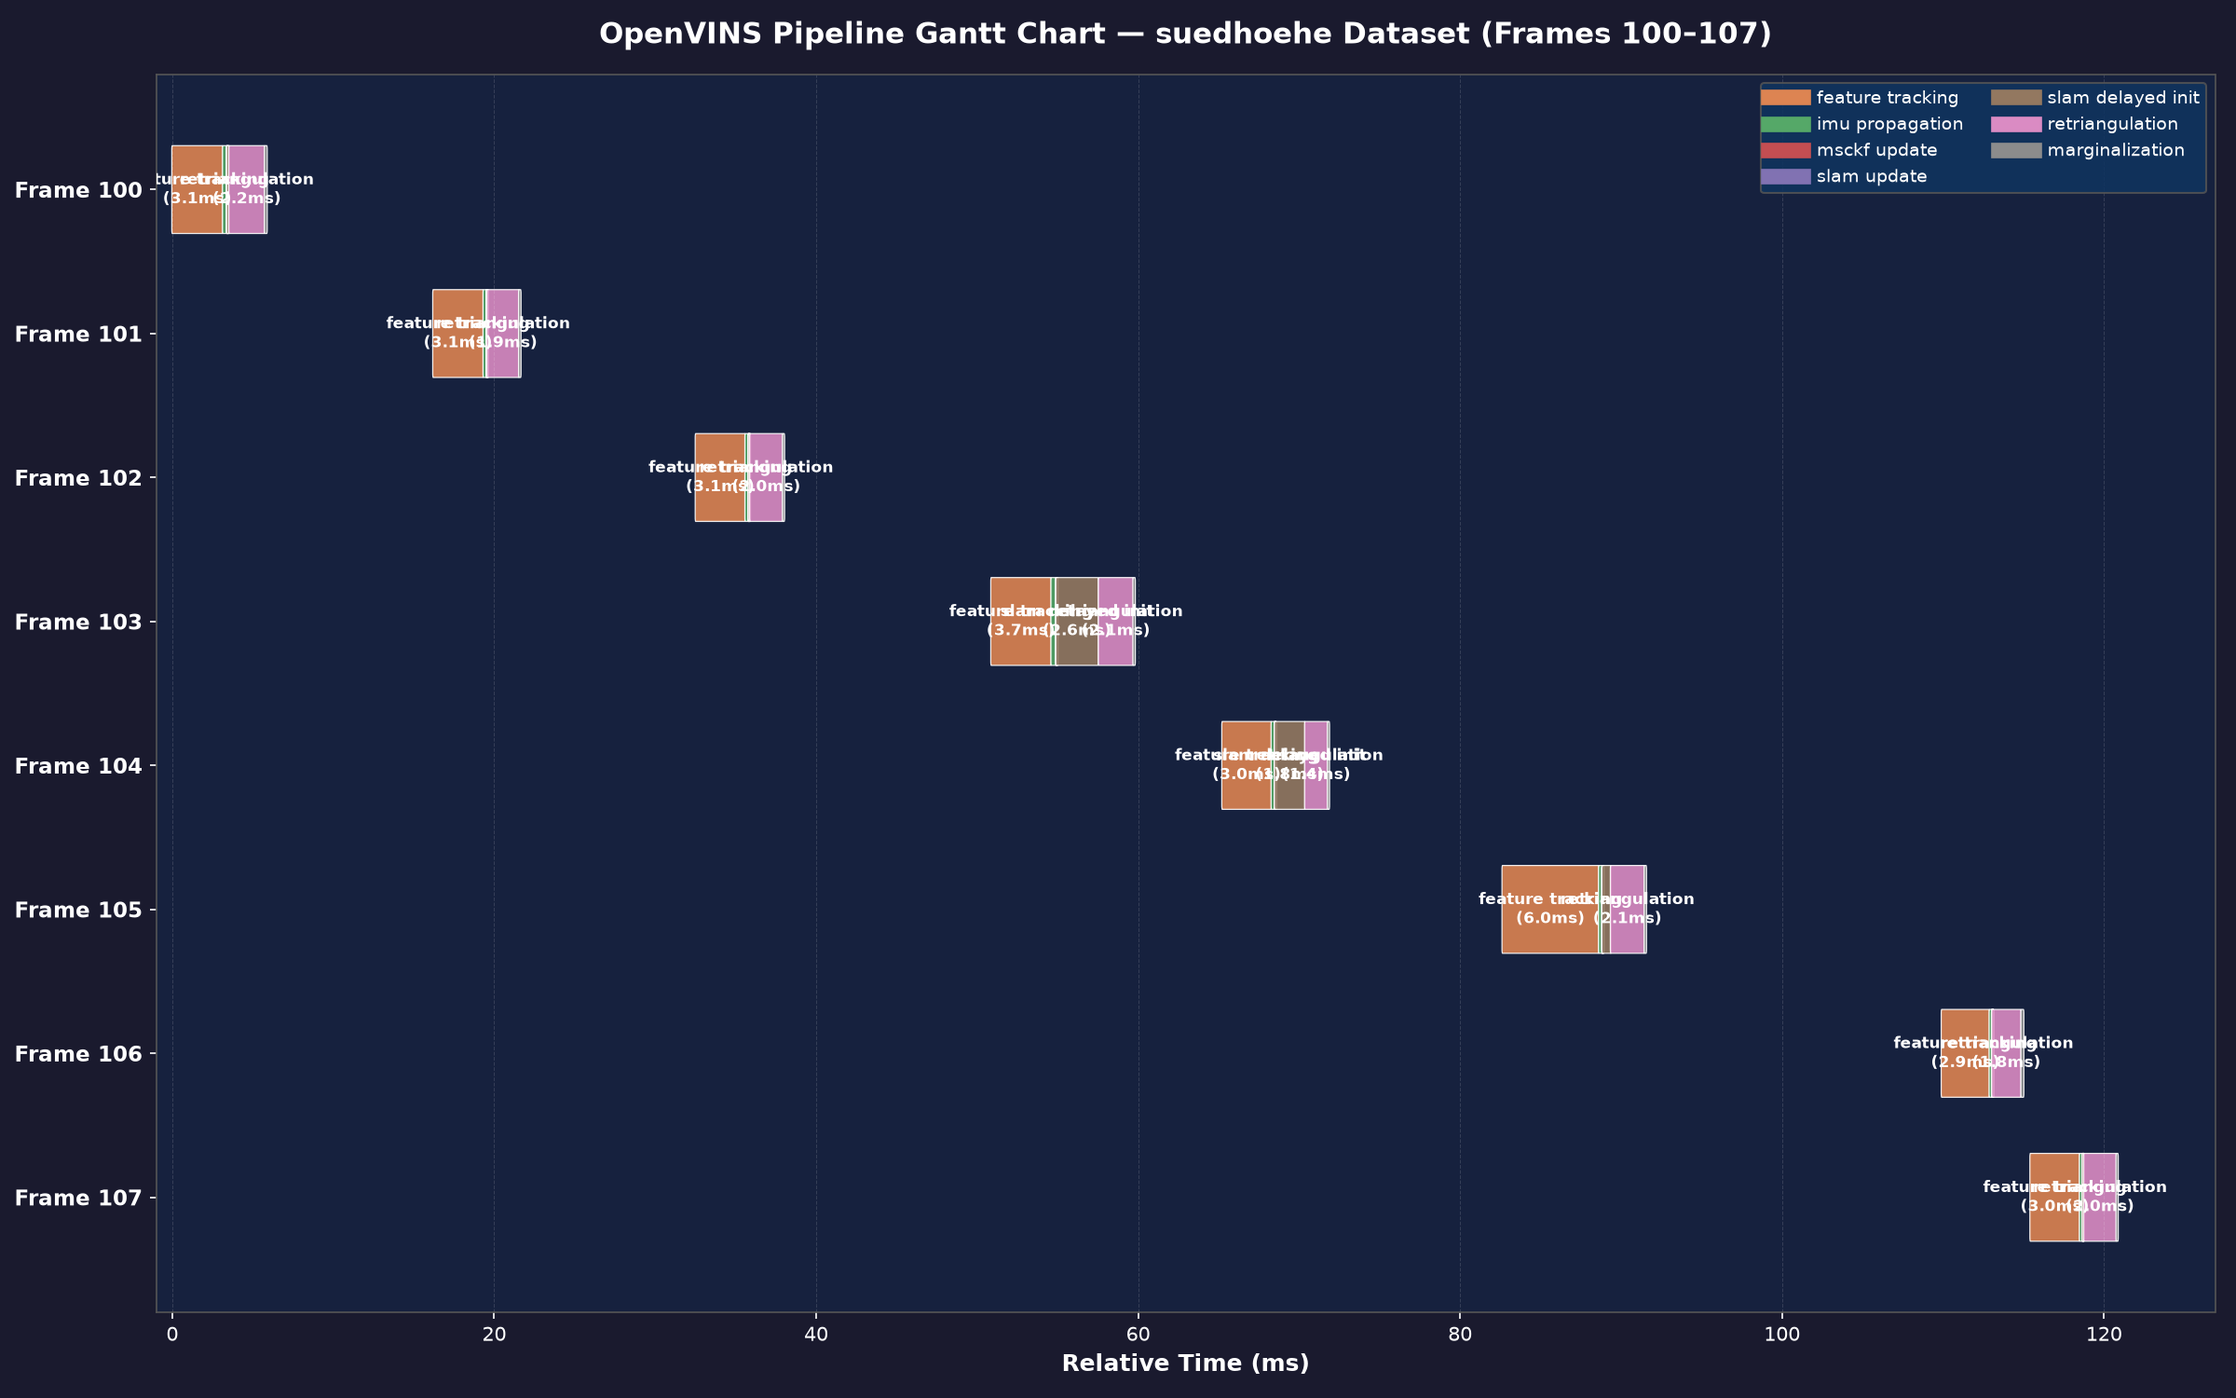
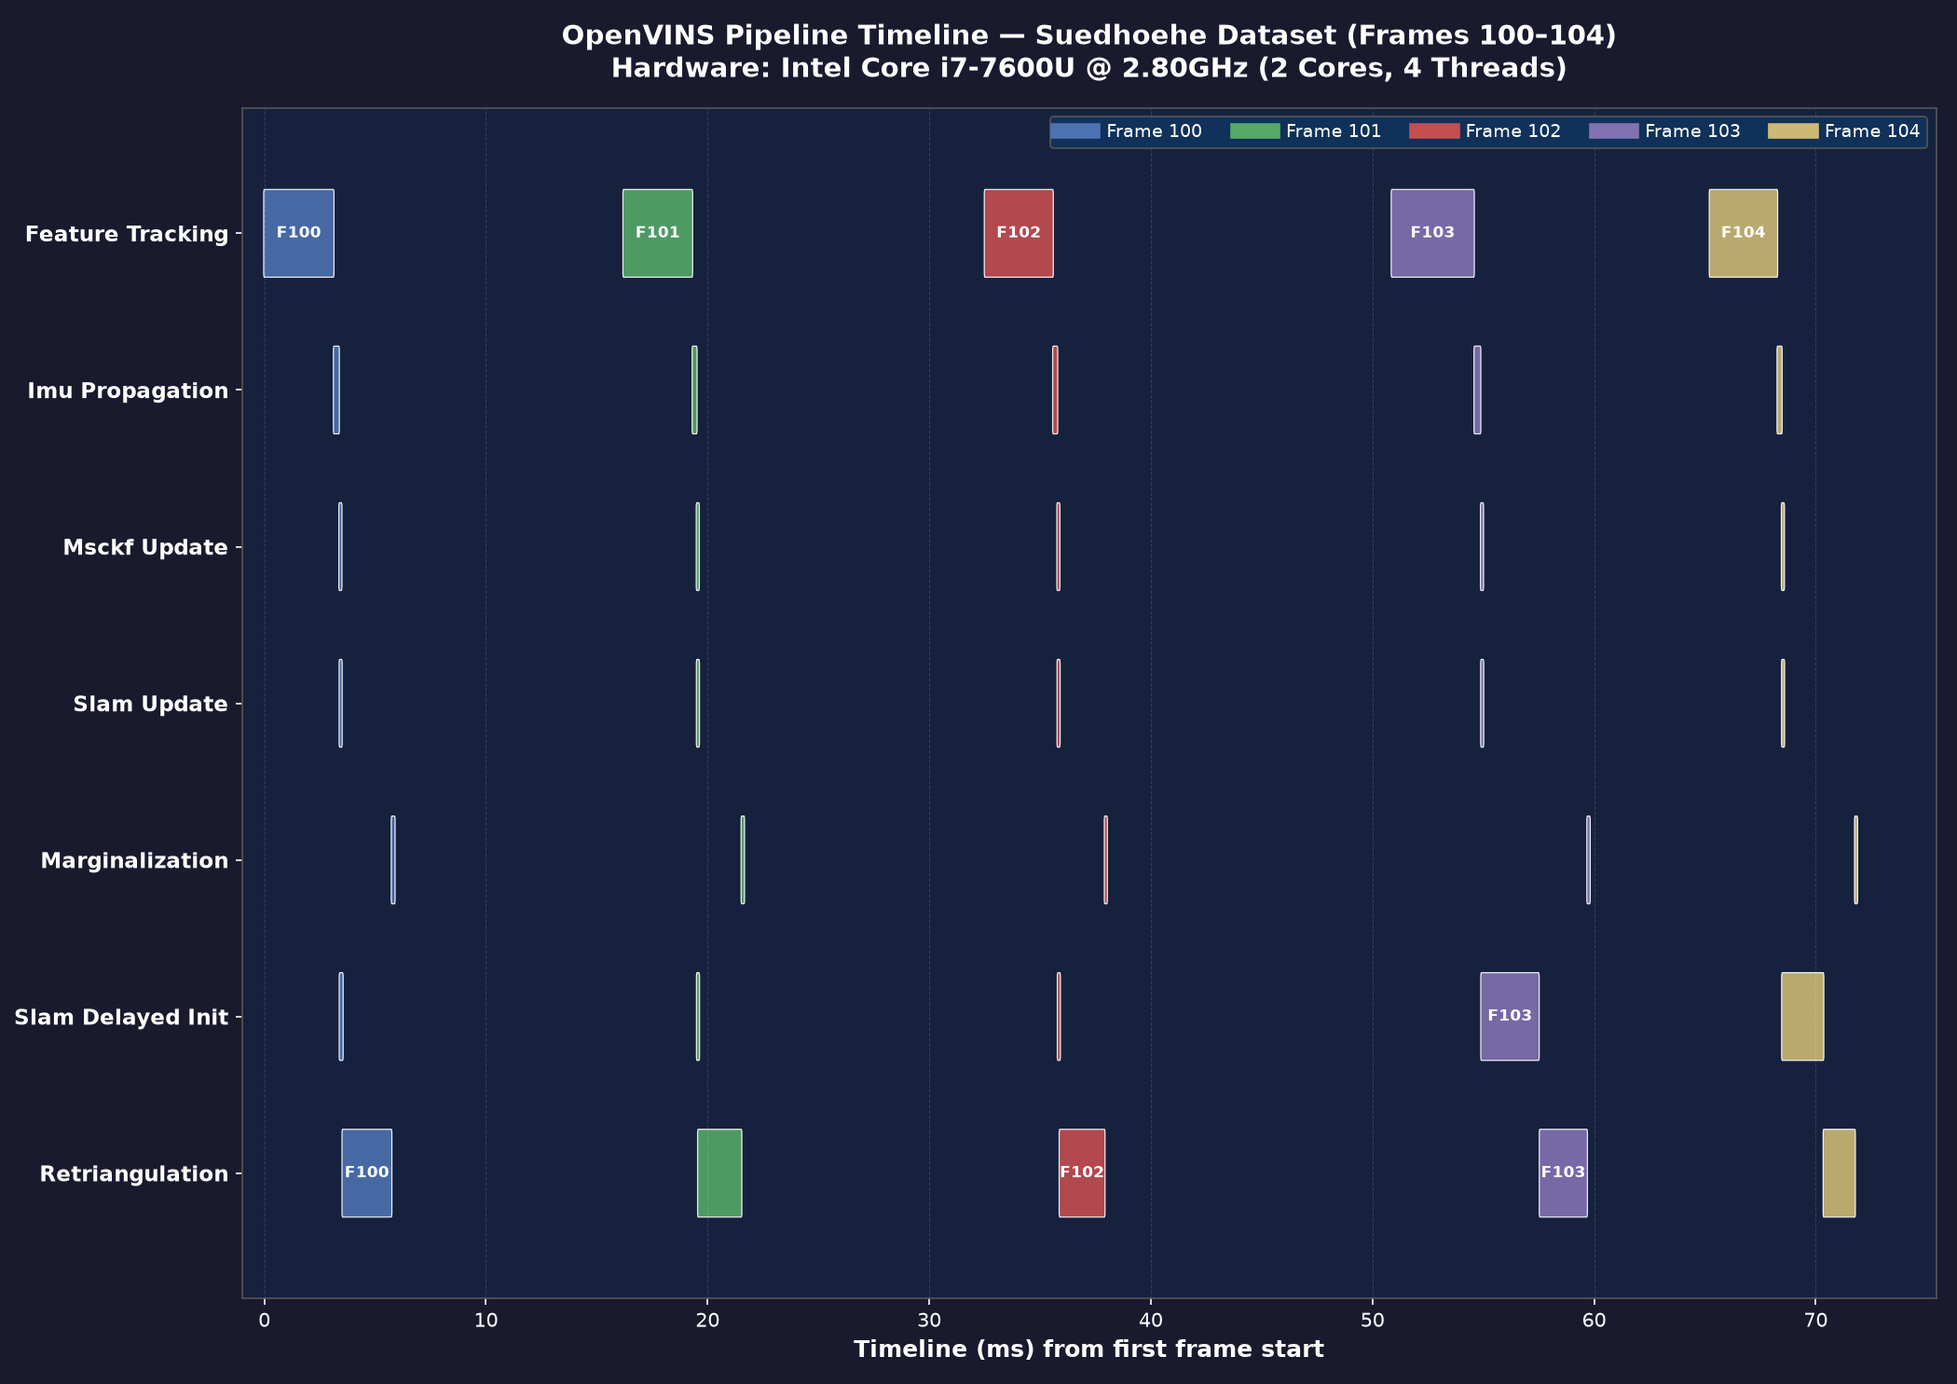
Update Gantt charts to show horizontal-split modules and frame colorings to illustrate parallel/sequential pipelining

diff --git a/scratch/plot_timing.py b/scratch/plot_timing.py
@@ -2,7 +2,8 @@
 """
 Pipeline Timing Visualizer for SLAM / VIO Benchmarking
 ======================================================
-Reads scoped-timer CSVs and generates clean, presentation-ready Gantt charts.
+Generates clean, horizontal Gantt charts with modules/functions split as separate lanes,
+coloring bars by frame ID to demonstrate parallel/sequential thread pipelines.
 """
 
 import argparse
@@ -14,28 +15,11 @@ import numpy as np
 import pandas as pd
 from matplotlib.lines import Line2D
 
-STAGE_COLOURS = {
-    "feature_tracking":      "#DD8452",
-    "track_stereo":          "#DD8452",
-    "imu_propagation":       "#55A868",
-    "msckf_update":          "#C44E52",
-    "slam_update":           "#8172B2",
-    "slam_delayed_init":     "#937860",
-    "retriangulation":       "#DA8BC3",
-    "marginalization":       "#8C8C8C",
-    "zupt_update":           "#CCB974",
-    "image_preprocessing":   "#4C72B0",
-    "featureDetectionTime":  "#DD8452",
-    "featureTrackingTime":   "#55A868",
-    "monoRansacTime":        "#C44E52",
-    "stereoRansacTime":      "#8172B2",
-    "featureSelectionTime":  "#937860",
-}
-DEFAULT_COLOUR = "#64b5f6"
-
-def stage_colour(name: str) -> str:
-    return STAGE_COLOURS.get(name, DEFAULT_COLOUR)
-
+# Consistent modern discrete color palette for frames
+FRAME_COLOURS = [
+    "#4C72B0", "#55A868", "#C44E52", "#8172B2", "#CCB974",
+    "#64B5F6", "#E377C2", "#8C564B", "#9467BD", "#7F7F7F"
+]
 
 def load_csv(path: str) -> pd.DataFrame:
     df = pd.read_csv(path)
@@ -43,12 +27,10 @@ def load_csv(path: str) -> pd.DataFrame:
     assert {"frame_id", "module", "thread_id", "start_ns", "end_ns", "duration_ms"}.issubset(
         df.columns
     ), f"Missing columns. Got: {list(df.columns)}"
-    uid_map = {uid: f"Thread-{i+1}" for i, uid in enumerate(sorted(df["thread_id"].unique()))}
-    df["thread_label"] = df["thread_id"].map(uid_map)
     return df
 
-
-def plot_gantt_zoomed(df: pd.DataFrame, out_path: str, algo_name: str, dataset_name: str, start_frame: int = 100, num_frames: int = 8):
+def plot_gantt_horizontal_split(df: pd.DataFrame, out_path: str, algo_name: str, dataset_name: str, start_frame: int = 100, num_frames: int = 5):
+    # Retrieve consecutive frames starting at start_frame
     frames = [f for f in sorted(df["frame_id"].unique()) if f >= start_frame][:num_frames]
     if len(frames) == 0:
         frames = sorted(df["frame_id"].unique())[:num_frames]
@@ -58,79 +40,119 @@ def plot_gantt_zoomed(df: pd.DataFrame, out_path: str, algo_name: str, dataset_n
         print(f"[!] Warning: Zoomed range empty for {algo_name}, skipping")
         return
 
+    # Normalize time relative to the earliest start time in zoom window
     t0 = df_zoom["start_ns"].min()
     df_zoom["start_ms"] = (df_zoom["start_ns"] - t0) * 1e-6
     df_zoom["end_ms"]   = (df_zoom["end_ns"]   - t0) * 1e-6
 
-    frame_y = {f: i for i, f in enumerate(reversed(frames))}
-    lane_height = 0.55
+    # Determine unique modules and logical order
+    raw_modules = df_zoom["module"].unique()
+    if algo_name == "OpenVINS":
+        order = ["feature_tracking", "imu_propagation", "msckf_update", "slam_update", "marginalization"]
+        modules = [m for m in order if m in raw_modules] + [m for m in raw_modules if m not in order]
+    elif algo_name == "ORB-SLAM3":
+        order = ["image_preprocessing", "track_stereo"]
+        modules = [m for m in order if m in raw_modules] + [m for m in raw_modules if m not in order]
+    else:
+        modules = sorted(raw_modules)
 
-    fig, ax = plt.subplots(figsize=(16, 1.2 + 1.1 * len(frames)))
+    # Map modules to vertical y-coordinates
+    module_y = {mod: i for i, mod in enumerate(reversed(modules))}
+    lane_height = 0.5
+
+    # Create figure
+    fig, ax = plt.subplots(figsize=(14, 1.5 + 1.2 * len(modules)))
     fig.patch.set_facecolor("#1a1a2e")
     ax.set_facecolor("#16213e")
 
+    # Map each frame ID to a color
+    frame_colors = {f: FRAME_COLOURS[i % len(FRAME_COLOURS)] for i, f in enumerate(frames)}
+
     for _, row in df_zoom.iterrows():
-        y = frame_y[row["frame_id"]]
+        y = module_y[row["module"]]
         width = max(row["end_ms"] - row["start_ms"], 0.08)
+        color = frame_colors[row["frame_id"]]
+
         rect = mpatches.FancyBboxPatch(
             (row["start_ms"], y - lane_height / 2),
             width, lane_height,
             boxstyle="round,pad=0.03",
-            facecolor=stage_colour(row["module"]),
+            facecolor=color,
             edgecolor="#ffffff",
             linewidth=0.6,
             alpha=0.9,
         )
         ax.add_patch(rect)
-        if width > 1.0:
+
+        # Label inside or next to the bar
+        label_text = f"F{row['frame_id']} ({row['duration_ms']:.1f}ms)"
+        if width > 12.0:
             ax.text(
                 row["start_ms"] + width / 2,
                 y,
-                f"{row['module'].replace('_', ' ')}\n({row['duration_ms']:.1f}ms)",
+                label_text,
+                ha="center", va="center",
+                fontsize=8, color="white", fontweight="bold",
+                clip_on=True,
+            )
+        elif width > 2.0:
+            ax.text(
+                row["start_ms"] + width / 2,
+                y,
+                f"F{row['frame_id']}",
                 ha="center", va="center",
                 fontsize=8, color="white", fontweight="bold",
                 clip_on=True,
             )
 
-    ax.set_yticks([frame_y[f] for f in reversed(frames)])
-    ax.set_yticklabels([f"Frame {f}" for f in reversed(frames)], color="white", fontsize=11, fontweight="bold")
-    ax.set_ylim(-0.8, len(frames) - 0.2)
+    # Set axis properties
+    ax.set_yticks([module_y[m] for m in reversed(modules)])
+    ax.set_yticklabels([m.replace("_", " ").title() for m in reversed(modules)], color="white", fontsize=11, fontweight="bold")
+    ax.set_ylim(-0.8, len(modules) - 0.2)
     ax.set_xlim(-1, df_zoom["end_ms"].max() * 1.05)
-    ax.set_xlabel("Relative Time (ms)", color="white", fontsize=12, fontweight="bold")
+    ax.set_xlabel("Timeline (ms) from first frame start", color="white", fontsize=12, fontweight="bold")
+    
+    # Subtitle with hardware info
+    hardware_info = "Intel Core i7-7600U @ 2.80GHz (2 Cores, 4 Threads)"
     ax.set_title(
-        f"{algo_name} Pipeline Gantt Chart — {dataset_name} Dataset (Frames {frames[0]}–{frames[-1]})",
-        color="white", fontsize=15, fontweight="bold", pad=16,
+        f"{algo_name} Pipeline Timeline — {dataset_name.capitalize()} Dataset (Frames {frames[0]}–{frames[-1]})\nHardware: {hardware_info}",
+        color="white", fontsize=14, fontweight="bold", pad=16,
     )
+    
     ax.tick_params(colors="white")
     ax.spines[:].set_edgecolor("#555")
     ax.grid(axis="x", color="#ffffff22", linestyle="--", linewidth=0.5)
 
+    # Legend for frames
     legend_handles = [
-        Line2D([0], [0], color=stage_colour(s), linewidth=8, label=s.replace("_", " "))
-        for s in df_zoom["module"].unique()
+        Line2D([0], [0], color=frame_colors[f], linewidth=8, label=f"Frame {f}")
+        for f in frames
     ]
     ax.legend(handles=legend_handles, loc="upper right",
               facecolor="#0f3460", edgecolor="#555", labelcolor="white",
-              fontsize=9, ncol=2, framealpha=0.85)
+              fontsize=9, ncol=min(len(frames), 5), framealpha=0.85)
 
     plt.tight_layout()
     plt.savefig(out_path, dpi=150, facecolor=fig.get_facecolor())
     plt.close(fig)
     print(f"[✔] Saved {algo_name} Gantt chart → {out_path}")
 
-
 def main():
     parser = argparse.ArgumentParser(description="Timing visualizer")
     parser.add_argument("--csv", required=True)
     parser.add_argument("--out", required=True)
     parser.add_argument("--algo", default="OpenVINS")
-    parser.add_argument("--dataset", default="Suedhohe")
+    parser.add_argument("--dataset", default="suedhoehe")
     parser.add_argument("--start-frame", type=int, default=100)
+    parser.add_argument("--num-frames", type=int, default=5)
     args = parser.parse_args()
 
     os.makedirs(os.path.dirname(args.out), exist_ok=True)
     df = load_csv(args.csv)
-    plot_gantt_zoomed(df, args.out, args.algo, args.dataset, start_frame=args.start_frame)
+    plot_gantt_horizontal_split(
+        df, args.out, args.algo, args.dataset,
+        start_frame=args.start_frame, num_frames=args.num_frames
+    )
 
 if __name__ == "__main__":
     main()

diff --git a/scratch/plot_kimera_timing.py b/scratch/plot_kimera_timing.py
@@ -1,6 +1,9 @@
 #!/usr/bin/env python3
 """
 Kimera-VIO Pipeline Timing Visualizer for Suedhohe Dataset
+==========================================================
+Generates clean, horizontal Gantt charts with modules/functions split as separate lanes,
+coloring bars by frame ID to demonstrate parallel/sequential thread pipelines.
 """
 
 import os
@@ -12,18 +15,11 @@ import numpy as np
 import pandas as pd
 from matplotlib.lines import Line2D
 
-STAGE_COLOURS = {
-    "featureDetectionTime":  "#DD8452",
-    "featureTrackingTime":   "#55A868",
-    "monoRansacTime":        "#C44E52",
-    "stereoRansacTime":      "#8172B2",
-    "featureSelectionTime":  "#937860",
-}
-DEFAULT_COLOUR = "#64b5f6"
-
-def stage_colour(name: str) -> str:
-    return STAGE_COLOURS.get(name, DEFAULT_COLOUR)
-
+# Consistent modern discrete color palette for frames
+FRAME_COLOURS = [
+    "#4C72B0", "#55A868", "#C44E52", "#8172B2", "#CCB974",
+    "#64B5F6", "#E377C2", "#8C564B", "#9467BD", "#7F7F7F"
+]
 
 def load_kimera_csv(path: str) -> pd.DataFrame:
     df = pd.read_csv(path)
@@ -47,8 +43,8 @@ def load_kimera_csv(path: str) -> pd.DataFrame:
                     "module": col,
                     "thread_id": 1,
                     "thread_label": "Frontend Thread",
-                    "start_ms": t_curr + cum_offset,
-                    "end_ms": t_curr + cum_offset + dur,
+                    "start_ns": int((t_curr + cum_offset) * 1e6),
+                    "end_ns": int((t_curr + cum_offset + dur) * 1e6),
                     "duration_ms": dur
                 })
                 cum_offset += dur
@@ -56,89 +52,124 @@ def load_kimera_csv(path: str) -> pd.DataFrame:
     df_long = pd.DataFrame(rows)
     return df_long
 
-
-def plot_gantt_zoomed(df: pd.DataFrame, out_path: str, algo_name: str, dataset_name: str, start_frame: int = 50, num_frames: int = 8):
+def plot_gantt_horizontal_split(df: pd.DataFrame, out_path: str, algo_name: str, dataset_name: str, start_frame: int = 50, num_frames: int = 5):
+    # Retrieve consecutive frames starting at start_frame
     frames = [f for f in sorted(df["frame_id"].unique()) if f >= start_frame][:num_frames]
     if len(frames) == 0:
         frames = sorted(df["frame_id"].unique())[:num_frames]
 
     df_zoom = df[df["frame_id"].isin(frames)].copy()
     if df_zoom.empty:
+        print(f"[!] Warning: Zoomed range empty for {algo_name}, skipping")
         return
 
-    t0 = df_zoom["start_ms"].min()
-    df_zoom["rel_start_ms"] = df_zoom["start_ms"] - t0
-    df_zoom["rel_end_ms"]   = df_zoom["end_ms"] - t0
+    # Normalize time relative to the earliest start time in zoom window
+    t0 = df_zoom["start_ns"].min()
+    df_zoom["start_ms"] = (df_zoom["start_ns"] - t0) * 1e-6
+    df_zoom["end_ms"]   = (df_zoom["end_ns"]   - t0) * 1e-6
 
-    frame_y = {f: i for i, f in enumerate(reversed(frames))}
-    lane_height = 0.55
+    # Determine unique modules and logical order
+    raw_modules = df_zoom["module"].unique()
+    order = ["featureDetectionTime", "featureTrackingTime", "monoRansacTime", "stereoRansacTime", "featureSelectionTime"]
+    modules = [m for m in order if m in raw_modules] + [m for m in raw_modules if m not in order]
 
-    fig, ax = plt.subplots(figsize=(16, 1.2 + 1.1 * len(frames)))
+    # Map modules to vertical y-coordinates
+    module_y = {mod: i for i, mod in enumerate(reversed(modules))}
+    lane_height = 0.5
+
+    # Create figure
+    fig, ax = plt.subplots(figsize=(14, 1.5 + 1.2 * len(modules)))
     fig.patch.set_facecolor("#1a1a2e")
     ax.set_facecolor("#16213e")
 
+    # Map each frame ID to a color
+    frame_colors = {f: FRAME_COLOURS[i % len(FRAME_COLOURS)] for i, f in enumerate(frames)}
+
     for _, row in df_zoom.iterrows():
-        y = frame_y[row["frame_id"]]
-        width = max(row["rel_end_ms"] - row["rel_start_ms"], 0.08)
+        y = module_y[row["module"]]
+        width = max(row["end_ms"] - row["start_ms"], 0.08)
+        color = frame_colors[row["frame_id"]]
+
         rect = mpatches.FancyBboxPatch(
-            (row["rel_start_ms"], y - lane_height / 2),
+            (row["start_ms"], y - lane_height / 2),
             width, lane_height,
             boxstyle="round,pad=0.03",
-            facecolor=stage_colour(row["module"]),
+            facecolor=color,
             edgecolor="#ffffff",
             linewidth=0.6,
             alpha=0.9,
         )
         ax.add_patch(rect)
-        if width > 1.0:
+
+        # Label inside or next to the bar
+        label_text = f"F{row['frame_id']} ({row['duration_ms']:.1f}ms)"
+        if width > 12.0:
             ax.text(
-                row["rel_start_ms"] + width / 2,
+                row["start_ms"] + width / 2,
                 y,
-                f"{row['module'].replace('Time', '')}\n({row['duration_ms']:.1f}ms)",
+                label_text,
+                ha="center", va="center",
+                fontsize=8, color="white", fontweight="bold",
+                clip_on=True,
+            )
+        elif width > 2.0:
+            ax.text(
+                row["start_ms"] + width / 2,
+                y,
+                f"F{row['frame_id']}",
                 ha="center", va="center",
                 fontsize=8, color="white", fontweight="bold",
                 clip_on=True,
             )
 
-    ax.set_yticks([frame_y[f] for f in reversed(frames)])
-    ax.set_yticklabels([f"Frame {f}" for f in reversed(frames)], color="white", fontsize=11, fontweight="bold")
-    ax.set_ylim(-0.8, len(frames) - 0.2)
-    ax.set_xlim(-1, df_zoom["rel_end_ms"].max() * 1.05)
-    ax.set_xlabel("Relative Time (ms)", color="white", fontsize=12, fontweight="bold")
+    # Set axis properties
+    ax.set_yticks([module_y[m] for m in reversed(modules)])
+    ax.set_yticklabels([m.replace("Time", "").title() for m in reversed(modules)], color="white", fontsize=11, fontweight="bold")
+    ax.set_ylim(-0.8, len(modules) - 0.2)
+    ax.set_xlim(-1, df_zoom["end_ms"].max() * 1.05)
+    ax.set_xlabel("Timeline (ms) from first frame start", color="white", fontsize=12, fontweight="bold")
+    
+    # Subtitle with hardware info
+    hardware_info = "Intel Core i7-7600U @ 2.80GHz (2 Cores, 4 Threads)"
     ax.set_title(
-        f"{algo_name} Pipeline Gantt Chart — {dataset_name} Dataset (Frames {frames[0]}–{frames[-1]})",
-        color="white", fontsize=15, fontweight="bold", pad=16,
+        f"{algo_name} Pipeline Timeline — {dataset_name.capitalize()} Dataset (Frames {frames[0]}–{frames[-1]})\nHardware: {hardware_info}",
+        color="white", fontsize=14, fontweight="bold", pad=16,
     )
+    
     ax.tick_params(colors="white")
     ax.spines[:].set_edgecolor("#555")
     ax.grid(axis="x", color="#ffffff22", linestyle="--", linewidth=0.5)
 
+    # Legend for frames
     legend_handles = [
-        Line2D([0], [0], color=stage_colour(s), linewidth=8, label=s.replace("Time", ""))
-        for s in df_zoom["module"].unique()
+        Line2D([0], [0], color=frame_colors[f], linewidth=8, label=f"Frame {f}")
+        for f in frames
     ]
     ax.legend(handles=legend_handles, loc="upper right",
               facecolor="#0f3460", edgecolor="#555", labelcolor="white",
-              fontsize=9, ncol=2, framealpha=0.85)
+              fontsize=9, ncol=min(len(frames), 5), framealpha=0.85)
 
     plt.tight_layout()
     plt.savefig(out_path, dpi=150, facecolor=fig.get_facecolor())
     plt.close(fig)
     print(f"[✔] Saved {algo_name} Gantt chart → {out_path}")
 
-
 def main():
     parser = argparse.ArgumentParser(description="Kimera timing visualizer")
     parser.add_argument("--csv", required=True)
     parser.add_argument("--out", required=True)
     parser.add_argument("--algo", default="Kimera-VIO")
-    parser.add_argument("--dataset", default="Suedhohe")
+    parser.add_argument("--dataset", default="suedhoehe")
     parser.add_argument("--start-frame", type=int, default=50)
+    parser.add_argument("--num-frames", type=int, default=5)
     args = parser.parse_args()
 
     os.makedirs(os.path.dirname(args.out), exist_ok=True)
     df = load_kimera_csv(args.csv)
-    plot_gantt_zoomed(df, args.out, args.algo, args.dataset, start_frame=args.start_frame)
+    plot_gantt_horizontal_split(
+        df, args.out, args.algo, args.dataset,
+        start_frame=args.start_frame, num_frames=args.num_frames
+    )
 
 if __name__ == "__main__":
     main()
